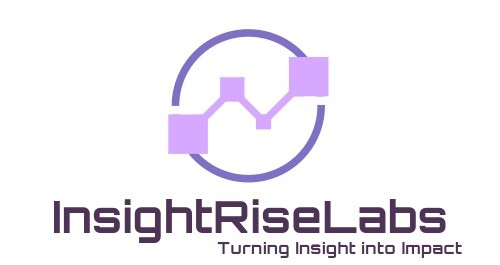
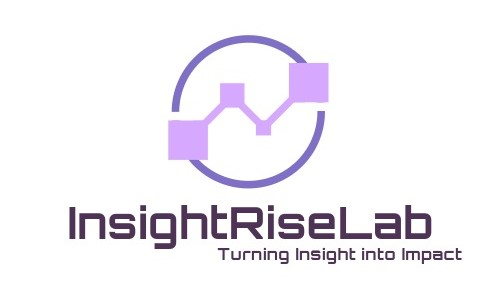
msg

diff --git a/src/components/Layout/Footer.js b/src/components/Layout/Footer.js
@@ -17,7 +17,7 @@ const Footer = () => {
               ABOUT US
             </Typography>
             <Typography fontSize="13px" mt={2} color="#747474">
-              InsightRiseLabs is a global technology company specializing in disruptive
+              InsightRiseLab is a global technology company specializing in disruptive
               technologies – Artificial Intelligence (AI), Machine Learning,
               Robotic Process Automation (RPA), BlockChain and Internet of
               Things (IoT). InsightRiseLabs mission to enable businesses to leverage the
@@ -89,7 +89,7 @@ const Footer = () => {
               </a>
             </Typography>
             <Typography mt={2}>
-              <img src={InsightRiselabs}  height="150" width="300"alt="image"/>
+              <img src={InsightRiselabs}  height="150" width="330"alt="image"/>
             </Typography>
           </Stack>
         </Grid>

diff --git a/src/pages/Home.js b/src/pages/Home.js
@@ -45,7 +45,7 @@ const Home = () => {
           Your browser does not support the video tag.
         </video>
         <div className="headerContainer">
-          <h1 data-aos="zoom-in-up">InsightRiseLabs Technologies</h1>
+          <h1 data-aos="zoom-in-up">InsightRiseLab Technologies</h1>
           <p id="typed-text" data-aos="fade-up"></p>
         </div>
       </div>
